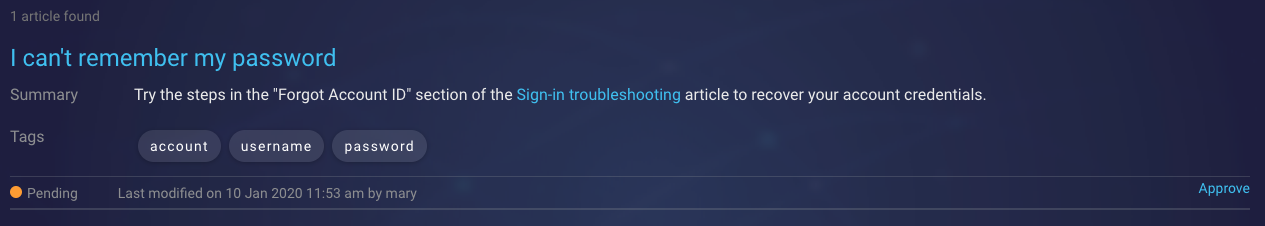
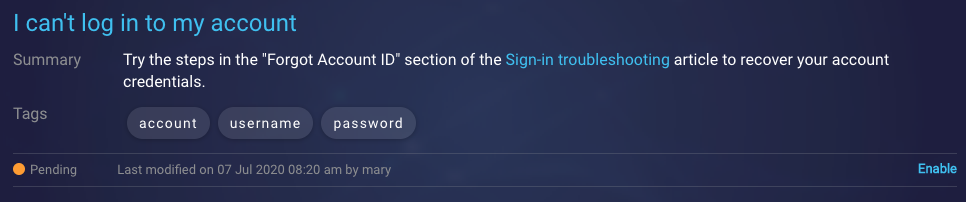
BA-3704 Enable/Disable links on KB articles

diff --git a/pages/documents/ConversationalAI/KnowledgeBase/knowledgeBaseTutorial.md b/pages/documents/ConversationalAI/KnowledgeBase/knowledgeBaseTutorial.md
@@ -49,9 +49,9 @@ Back in the search view, you should now see your new article, which should look 
 
 <img class="fancyimage" style="width:800px" src="img/ConvoBuilder/kb_tutorial4.png">
 
-Note that the article has a “Pending” notation on it. We add this for new articles and for articles created by agents using the Agent Advisor widget, so that a manager or supervisor can approve them before they are included in the results.
+Note that the article has a “Pending” notation on it. We add this for new articles so that a manager or supervisor can approve them before they are included in the results.
 
-To continue with this tutorial, click the **Approve** link over on the right.
+To continue with this tutorial, click the **Enable** link over on the right.
 
 ### Step 3: Train and tune
 
@@ -81,7 +81,7 @@ Let’s test our knowledge base and see how the NLU will return results.
 
 What about **thumbs down**? This should be used sparingly to differentiate two articles that might have intents that are close in meaning. NLU is not a specific pattern match, but more fuzzy, so having articles with similar intents but different content should be discouraged. That said, using thumbs down can help when that does occur, to indicate which of the two articles you'd like the NLU engine to match. Simply use the thumbs-down button on the article you'd like to de-prioritize, and the NLU engine will "prefer" the other one over it.
 
-For more best practices, see [Training and Tuning your Intents and FAQs](conversation-builder-best-practices-train-tune-nlu.html).
+For more best practices, see [here](conversation-builder-best-practices-train-tune-nlu.html).
 
 ### Step 4: Use entities
 
